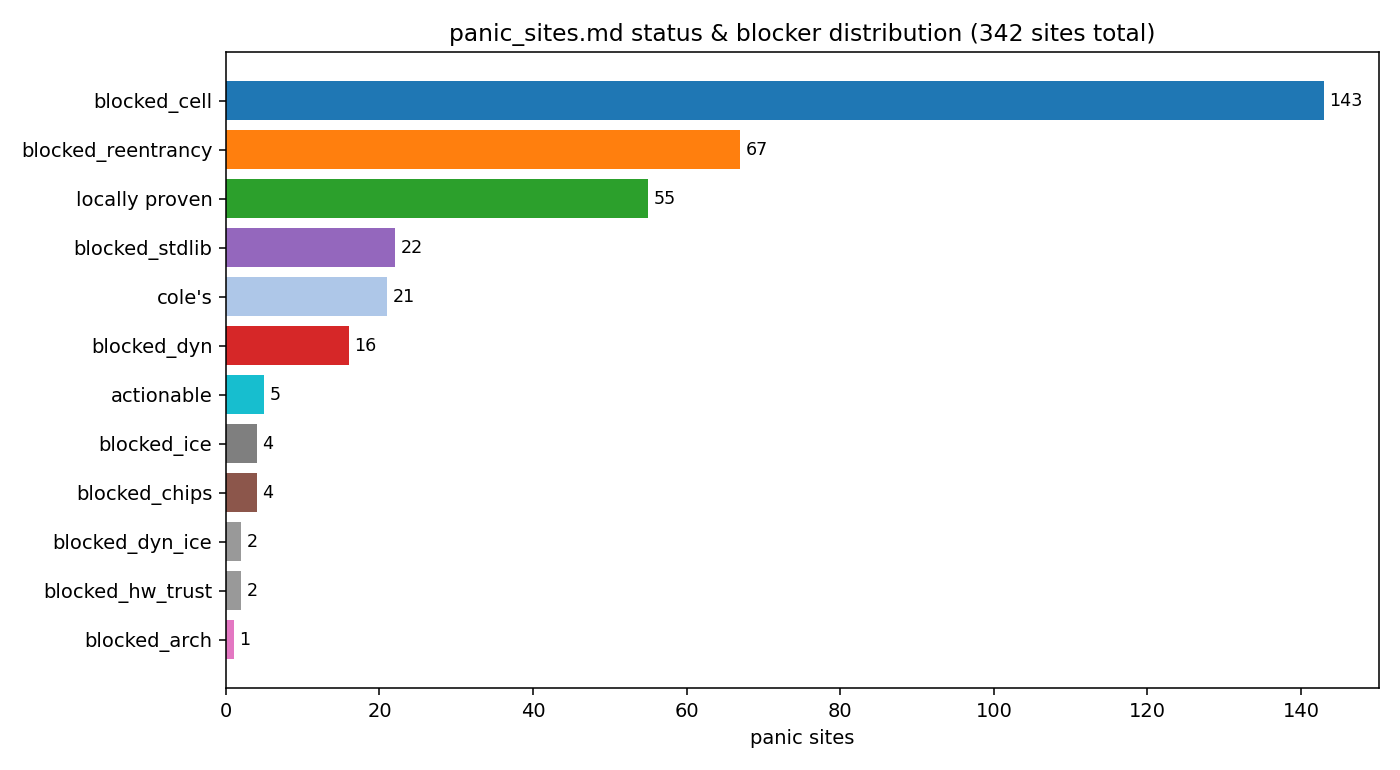
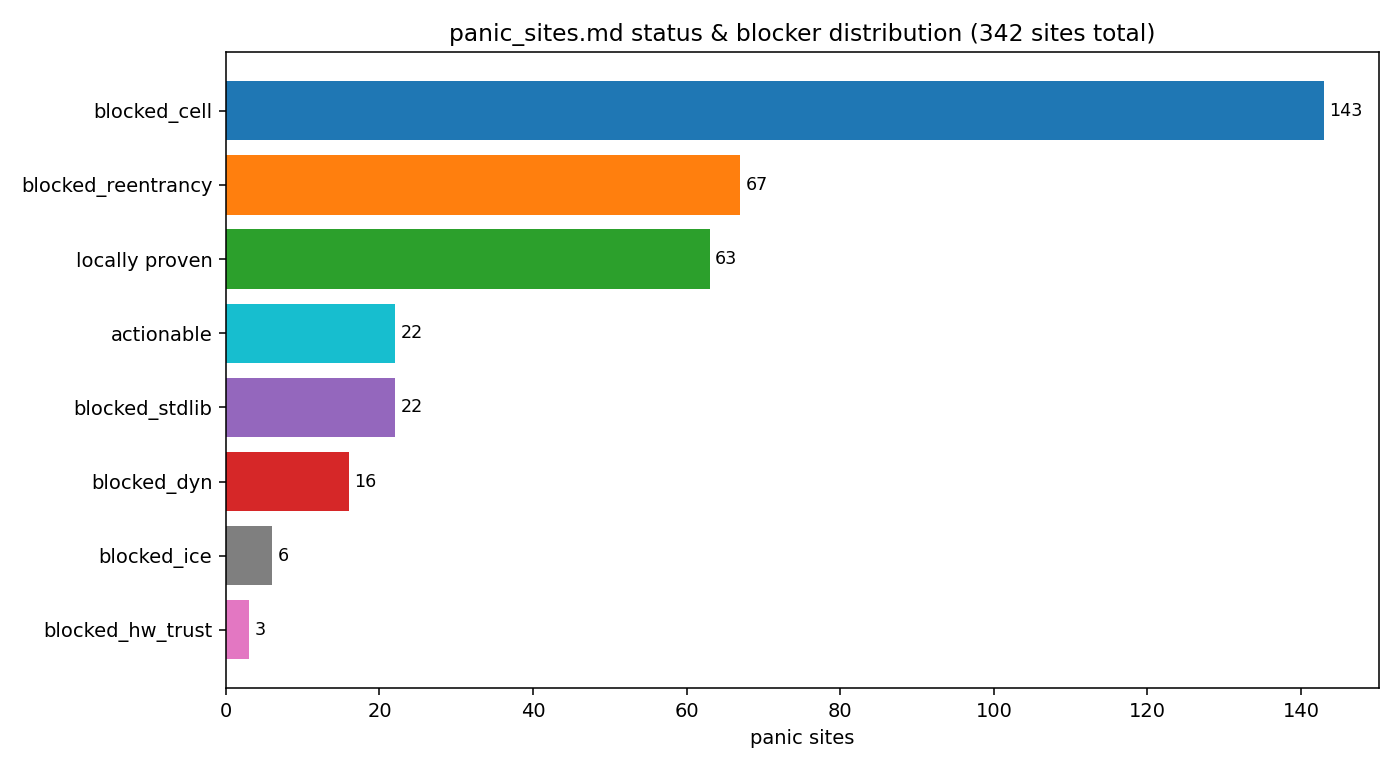
Reclassify the blocked_ice and blocked_chips/blocked_arch into actionable b/c of inclusion via defid

Changed region(s): [[0.0, 0.1558, 0.9521, 0.8727], [0.0614, 0.1247, 0.1536, 0.1558], [0.9521, 0.1247, 0.9829, 0.1558]]

diff --git a/tools/panic_sites.md b/tools/panic_sites.md
@@ -135,8 +135,8 @@ Each panic site has a verification status (orthogonal to `Blockers`; ownership l
 | `0x1974c` | `slice_end` | [capsules/extra/src/net/sixlowpan/sixlowpan_state.rs:510](https://github.com/ninehusky/tock/blob/9548b2ed92b4da0094fe6c11b8ea3e4a273988de/capsules/extra/src/net/sixlowpan/sixlowpan_state.rs#L510) | `let _ = frame.append_payload(&lowpan_packet[0..written]);` | Slice op verifies via `flux_support::assume(written <= lowpan_packet.len())` immediately before the call. Wanted to express this as a trusted sig on `sixlowpan_compression::compress` (the source of `written`), but Flux ICEs on `&dyn ContextStore` in fn sigs (`flux-fhir-analysis/conv/struct_compat`). `assume` introduces a runtime panic check (minor behavior change vs pure annotation), but the panic condition is identical to the slice op's bounds check it replaces. Verification of the underlying compress invariant remains blocked on the ICE. |  | locally proven | andrew |
 | `0x19754` | `slice_end` | [capsules/extra/src/net/sixlowpan/sixlowpan_state.rs:527](https://github.com/ninehusky/tock/blob/9548b2ed92b4da0094fe6c11b8ea3e4a273988de/capsules/extra/src/net/sixlowpan/sixlowpan_state.rs#L527) | `let _ = frame.append_payload(&ip6_packet.get_payload()[0..payload_len]);` | Added sig on `IP6Packet::get_payload`: returns `&[u8][p.payload_buf_len]`. Slice op verifies via `flux_support::assume(payload_len <= ip6_packet.get_payload().len())` at the call site. Wanted to prove this end-to-end by un-trusting `write_additional_headers` (already had IP6Packet refinement), but the chain also needs sigs on `min` and an invariant connecting `get_total_len() - 40 <= payload_buf_len` (wire length fits buffer). Used assume to localize the trust — same pattern as 510. |  | locally proven | andrew |
 | `0x1975a` | `slice_order` | [capsules/extra/src/net/sixlowpan/sixlowpan_state.rs:556](https://github.com/ninehusky/tock/blob/9548b2ed92b4da0094fe6c11b8ea3e4a273988de/capsules/extra/src/net/sixlowpan/sixlowpan_state.rs#L556) | `&ip6_packet.get_payload()[payload_offset..payload_offset + payload_len],` | Old "slice-output gap" half of the trust was stale (output_pred infra landed earlier today). Remaining obligation was `get_total_hdr_size` requires `ip.kind != 1`; propagating into `next_fragment` (the caller) is blocked by `radio: &dyn MacDevice` (Flux ICE on dyn-in-sig). Resolved by moving the trust UP to `next_fragment` (trusted with reason about dyn) and un-trusting `prepare_next_fragment` with `requires ip.kind != 1`. Body verifies cleanly; the slice op at line 580 is locally proven by Flux. |  | locally proven | andrew |
-| `0x1deb2` | `slice_end` | [capsules/extra/src/net/sixlowpan/sixlowpan_state.rs:731](https://github.com/ninehusky/tock/blob/9548b2ed92b4da0094fe6c11b8ea3e4a273988de/capsules/extra/src/net/sixlowpan/sixlowpan_state.rs#L731) | `&payload[0..payload_len],` | In `RxState::receive_next_frame`. Slice is on `payload` (the fn arg), not `packet`. Old slice-output reason stale (output_pred landed). Needs sig precondition `payload.len() >= payload_len` — blocked by `ctx_store: &dyn ContextStore` (dyn-in-sig ICE). (TakeCell issue on `self.packet` is a separate concern for OTHER panic sites in this function, not this row.) | `blocked_dyn_ice` | not started | andrew |
-| `0x1dea0` | `slice_end` | [capsules/extra/src/net/sixlowpan/sixlowpan_state.rs:745](https://github.com/ninehusky/tock/blob/9548b2ed92b4da0094fe6c11b8ea3e4a273988de/capsules/extra/src/net/sixlowpan/sixlowpan_state.rs#L745) | `.copy_from_slice(&payload[0..payload_len]);` | In `RxState::receive_next_frame`. Slice is on `payload` (source of copy_from_slice). Same blocker as 731 — needs `payload.len() >= payload_len` sig precondition, blocked by dyn-in-sig ICE on `&dyn ContextStore`. | `blocked_dyn_ice` | not started | andrew |
+| `0x1deb2` | `slice_end` | [capsules/extra/src/net/sixlowpan/sixlowpan_state.rs:731](https://github.com/ninehusky/tock/blob/9548b2ed92b4da0094fe6c11b8ea3e4a273988de/capsules/extra/src/net/sixlowpan/sixlowpan_state.rs#L731) | `&payload[0..payload_len],` | In `RxState::receive_next_frame`. Slice is on `payload` (the fn arg), not `packet`. Old slice-output reason stale (output_pred landed). Needs sig precondition `payload.len() >= payload_len` — blocked by `ctx_store: &dyn ContextStore` (dyn-in-sig ICE; see `feedback_flux_dyn_sig_ice`). (TakeCell issue on `self.packet` is a separate concern for OTHER panic sites in this function, not this row.) | `blocked_ice` | not started | andrew |
+| `0x1dea0` | `slice_end` | [capsules/extra/src/net/sixlowpan/sixlowpan_state.rs:745](https://github.com/ninehusky/tock/blob/9548b2ed92b4da0094fe6c11b8ea3e4a273988de/capsules/extra/src/net/sixlowpan/sixlowpan_state.rs#L745) | `.copy_from_slice(&payload[0..payload_len]);` | In `RxState::receive_next_frame`. Slice is on `payload` (source of copy_from_slice). Same blocker as 731 — needs `payload.len() >= payload_len` sig precondition, blocked by dyn-in-sig ICE on `&dyn ContextStore` (see `feedback_flux_dyn_sig_ice`). | `blocked_ice` | not started | andrew |
 | `0xbae8` | `unwrap_option` | [capsules/extra/src/net/sixlowpan/sixlowpan_state.rs:775](https://github.com/ninehusky/tock/blob/9548b2ed92b4da0094fe6c11b8ea3e4a273988de/capsules/extra/src/net/sixlowpan/sixlowpan_state.rs#L775) | `self.packet` | cell | `blocked_cell` | not started | andrew |
 | `0x1de7e` | `slice_order` | [capsules/extra/src/net/sixlowpan/sixlowpan_state.rs:824](https://github.com/ninehusky/tock/blob/9548b2ed92b4da0094fe6c11b8ea3e4a273988de/capsules/extra/src/net/sixlowpan/sixlowpan_state.rs#L824) | `&buf[data_offset..data_offset + data_len],` | Slice op was inside the trusted `RxClient::receive` impl (trusted at HAL boundary). Extracted into a verified free fn `slice_view(buf, off, len)` with `requires off + len <= buf.len()`. The panic site moves into the verified helper; the caller (trusted) calls it. Same extract-and-trust pattern as ipv6:359 — panic SITE is genuinely flux-checked even though caller correctness is unchecked at the trust boundary. | | locally proven | andrew |
 | `0x1de90` | `slice_end` | [capsules/extra/src/net/sixlowpan/sixlowpan_state.rs:899](https://github.com/ninehusky/tock/blob/9548b2ed92b4da0094fe6c11b8ea3e4a273988de/capsules/extra/src/net/sixlowpan/sixlowpan_state.rs#L899) | `let (is_frag1, dgram_size, dgram_tag, dgram_offset) = get_frag_hdr(&packet[0..5]);` | Added `requires n >= 5` precondition to `receive_frame`. Bubbles up: the caller (`RxClient::receive` trait impl) is trusted with a clear note at the HAL boundary — propagating `data_len >= 5` further would mean touching the RxClient trait (workspace-wide). Inside `receive_frame`, `flux_support::assert(packet.len() >= 5)` discharges the slice op (per-site assert because `no_panic_if` isn't opt-in). | | locally proven | andrew |
@@ -187,11 +187,11 @@ Each panic site has a verification status (orthogonal to `Blockers`; ownership l
 | `0x1dd2` | `unwrap_option` | [chips/nrf52/src/adc.rs:495](https://github.com/ninehusky/tock/blob/9548b2ed92b4da0094fe6c11b8ea3e4a273988de/chips/nrf52/src/adc.rs#L495) | `let ret_buf = self.buffer.take().unwrap();` |  | `blocked_cell` | not started |  |
 | `0x117f0` | `div_by_zero` | [chips/nrf52/src/adc.rs:562](https://github.com/ninehusky/tock/blob/9548b2ed92b4da0094fe6c11b8ea3e4a273988de/chips/nrf52/src/adc.rs#L562) | `let raw_cc = 16000000 / frequency;` | easy; [auto-dyn: dyn — div_by_zero on parameter 'frequency'] | `blocked_dyn` | not started |  |
 | `0x1196a` | `unwrap_option` | [chips/nrf52/src/ble_radio.rs:636](https://github.com/ninehusky/tock/blob/9548b2ed92b4da0094fe6c11b8ea3e4a273988de/chips/nrf52/src/ble_radio.rs#L636) | `.map(\|client\| client.transmit_event(self.buffer.take().unwrap(), result));` |  | `blocked_cell` | not started |  |
-| `0x13fea` | `bounds` | [chips/nrf52/src/ble_radio.rs:689](https://github.com/ninehusky/tock/blob/9548b2ed92b4da0094fe6c11b8ea3e4a273988de/chips/nrf52/src/ble_radio.rs#L689) | `PAYLOAD[i] = *c;` | needs precondition on buf | `blocked_chips` | not started |  |
+| `0x13fea` | `bounds` | [chips/nrf52/src/ble_radio.rs:689](https://github.com/ninehusky/tock/blob/9548b2ed92b4da0094fe6c11b8ea3e4a273988de/chips/nrf52/src/ble_radio.rs#L689) | `PAYLOAD[i] = *c;` | Needs precondition on `buf` (loop body writes `PAYLOAD[i]` for `i in 0..buf.len()`; PAYLOAD is a fixed-size static array). Per-fn flux include unblocks this — see `feedback_flux_per_fn_include`. |  | not started |  |
 | `0x1d04` | `assert` | [chips/nrf52/src/usbd.rs](https://github.com/ninehusky/tock/blob/9548b2ed92b4da0094fe6c11b8ea3e4a273988de/chips/nrf52/src/usbd.rs) |  | likely assert statement involving cell | `blocked_cell` | not started |  |
-| `0x1e08` | `bounds` | [chips/nrf52/src/usbd.rs](https://github.com/ninehusky/tock/blob/9548b2ed92b4da0094fe6c11b8ea3e4a273988de/chips/nrf52/src/usbd.rs) |  | unknown | `blocked_chips` | not started |  |
-| `0x1151a` | `explicit_panic` | [chips/nrf52/src/usbd.rs:56](https://github.com/ninehusky/tock/blob/9548b2ed92b4da0094fe6c11b8ea3e4a273988de/chips/nrf52/src/usbd.rs#L56) | `panic!($( $arg ),+)` | macro-level panic | `blocked_chips` | not started |  |
-| `0x11630` | `explicit_panic` | [chips/nrf52/src/usbd.rs:56](https://github.com/ninehusky/tock/blob/9548b2ed92b4da0094fe6c11b8ea3e4a273988de/chips/nrf52/src/usbd.rs#L56) | `panic!($( $arg ),+)` | macro | `blocked_chips` | not started |  |
+| `0x1e08` | `bounds` | [chips/nrf52/src/usbd.rs](https://github.com/ninehusky/tock/blob/9548b2ed92b4da0094fe6c11b8ea3e4a273988de/chips/nrf52/src/usbd.rs) |  | Survey didn't pin a line — needs addr2line refresh before triage. |  | not started |  |
+| `0x1151a` | `explicit_panic` | [chips/nrf52/src/usbd.rs:56](https://github.com/ninehusky/tock/blob/9548b2ed92b4da0094fe6c11b8ea3e4a273988de/chips/nrf52/src/usbd.rs#L56) | `panic!($( $arg ),+)` | Inside `internal_warn!`/`internal_err!` macro body — needs caller-site triage (find the call sites, decide intentional-abort vs. provable). |  | not started |  |
+| `0x11630` | `explicit_panic` | [chips/nrf52/src/usbd.rs:56](https://github.com/ninehusky/tock/blob/9548b2ed92b4da0094fe6c11b8ea3e4a273988de/chips/nrf52/src/usbd.rs#L56) | `panic!($( $arg ),+)` | Same macro as 0x1151a — separate call site; needs caller-site triage. |  | not started |  |
 | `0x1233c` | `explicit_panic` | [chips/nrf52/src/usbd.rs:638](https://github.com/ninehusky/tock/blob/9548b2ed92b4da0094fe6c11b8ea3e4a273988de/chips/nrf52/src/usbd.rs#L638) | `_ => panic!("Expected EndpointState::Ctrl"),` | Discharged via `#[flux_rs::refined_by(kind: int)]` on `EndpointState` (Disabled=0, Ctrl=1, Bulk=2) + sig `fn(EndpointState[@k]) -> CtrlState requires k == 1` on `ctrl_state`. With `k == 1`, only the `Ctrl(state)` arm is reachable; the `_` catch-all is statically unreachable. Per-fn flux via `def:ctrl_state`. |  | locally proven | andrew |
 | `0x11394` | `explicit_panic` | [chips/nrf52/src/usbd.rs:647](https://github.com/ninehusky/tock/blob/9548b2ed92b4da0094fe6c11b8ea3e4a273988de/chips/nrf52/src/usbd.rs#L647) | `_ => panic!("Expected EndpointState::Bulk"),` | Same pattern as `0x1233c`: `EndpointState[@k]` refinement + sig `requires k == 2` on `bulk_state`. The `_` catch-all is statically unreachable when `k == 2`. |  | locally proven | andrew |
 | `0x1cf4` | `explicit_panic` | [chips/nrf52/src/usbd.rs:1460](https://github.com/ninehusky/tock/blob/9548b2ed92b4da0094fe6c11b8ea3e4a273988de/chips/nrf52/src/usbd.rs#L1460) | `assert!(matches!(out_state, Some(BulkOutState::OutDma { .. })));` |  | `blocked_cell` | not started |  |
@@ -335,7 +335,7 @@ Each panic site has a verification status (orthogonal to `Blockers`; ownership l
 |---|---|---|---|---|---|---|---|
 | `0xf44c` | `explicit_panic` | [arch/cortex-m/src/lib.rs:148](https://github.com/ninehusky/tock/blob/9548b2ed92b4da0094fe6c11b8ea3e4a273988de/arch/cortex-m/src/lib.rs#L148) | `panic!("Unhandled Interrupt. ISR {} is active.", interrupt_number);` | `#[flux_rs::sig(fn() requires false)]` on both cfg arms — Flux checks the host body (unimplemented!()) under `false` and discharges trivially. Outstanding debt (FLUX-TODO at decl): chip vector tables still install this as a hardware exception handler via fn-pointer coercion (doesn't trigger Flux's precondition); to fully close, prove each such exception is hardware-disabled or remapped. | locally proven | done | andrew |
 | `0xf4d2` | `slice_order` | [arch/cortex-m/src/syscall.rs:88](https://github.com/ninehusky/tock/blob/9548b2ed92b4da0094fe6c11b8ea3e4a273988de/arch/cortex-m/src/syscall.rs#L88) | `slice[range].copy_from_slice(&val.to_le_bytes());` | Split into `usize_byte_range` (sig: `Range<usize>[i*4, (i+1)*4] requires i < 256`) and `copy_le_into` (cross-target trust only on `copy_from_slice` src length). `write_usize_to_u8_slice` is checked: Flux verifies the `slice[range]` op via the range sig (start < end trivially) and the precondition `n >= (i+1)*4`. | locally proven | done | andrew |
-| `0xf5a6` | `div_by_zero` | [arch/cortex-m/src/systick.rs:208](https://github.com/ninehusky/tock/blob/9548b2ed92b4da0094fe6c11b8ea3e4a273988de/arch/cortex-m/src/systick.rs#L208) | `Some(((tics * 1_000_000) / hertz) as u32)` | Per-fn flux now wired up: `pub mod systick;` no longer carries `#[flux_rs::ignore]`, and Cargo.toml has `include = ["def:get_remaining_us"]`. Flux flags the div_by_zero correctly at line 208. Discharge requires `hertz() > 0`, which is true in the `self.hertz != 0` body branch but NOT provable in the else branch (`tenms * 100` from a SysTick calibration register read — can be 0 on uncalibrated hardware). Currently sketched with `#[flux_rs::trusted]` + sig `r > 0` on `hertz()`, but that's a hardware assumption, not a code-level proof. To genuinely close: either prove non-zero hardware calibration via a board-init invariant on SysTick state, or accept the row as `blocked_arch_hardware_trust`. | `blocked_arch` | not started | andrew |
+| `0xf5a6` | `div_by_zero` | [arch/cortex-m/src/systick.rs:208](https://github.com/ninehusky/tock/blob/9548b2ed92b4da0094fe6c11b8ea3e4a273988de/arch/cortex-m/src/systick.rs#L208) | `Some(((tics * 1_000_000) / hertz) as u32)` | Per-fn flux now wired up: `pub mod systick;` no longer carries `#[flux_rs::ignore]`, and Cargo.toml has `include = ["def:get_remaining_us"]`. Flux flags the div_by_zero correctly at line 208. Discharge requires `hertz() > 0`, which is true in the `self.hertz != 0` body branch but NOT provable in the else branch (`tenms * 100` from a SysTick calibration register read — can be 0 on uncalibrated hardware). Currently sketched with `#[flux_rs::trusted]` + sig `r > 0` on `hertz()`, but that's a hardware assumption, not a code-level proof. To genuinely close: prove non-zero hardware calibration via a board-init invariant on SysTick state. Otherwise this is a hardware-trust claim (see `feedback_no_fabricated_host_mocks`). | `blocked_hw_trust` | not started | andrew |
 | `0x102d6` | `explicit_panic` | [arch/cortex-v7m/src/lib.rs:296](https://github.com/ninehusky/tock/blob/9548b2ed92b4da0094fe6c11b8ea3e4a273988de/arch/cortex-v7m/src/lib.rs#L296) | `panic!("kernel stack overflow");` | Inside `hard_fault_handler_arm_v7m_kernel`, which only exists under arm/none cfg (no host mock) and is entered only via inline-asm `sym` from the hardware hardfault path. Flux can't see the body, and the "annotate, don't add code" rule means we won't fabricate a host mock just to verify a `requires false` contract. Hardware-reachability claim, not a rust-level one. | `blocked_hw_trust` | not started |  |
 | `0x102bc` | `explicit_panic` | [arch/cortex-v7m/src/lib.rs:345](https://github.com/ninehusky/tock/blob/9548b2ed92b4da0094fe6c11b8ea3e4a273988de/arch/cortex-v7m/src/lib.rs#L345) | `panic!(` | Same `hard_fault_handler_arm_v7m_kernel` body as 0x102d6. Same `blocked_hw_trust` reasoning: arm/none-only, asm-entered, no host mock to annotate. | `blocked_hw_trust` | not started |  |
 